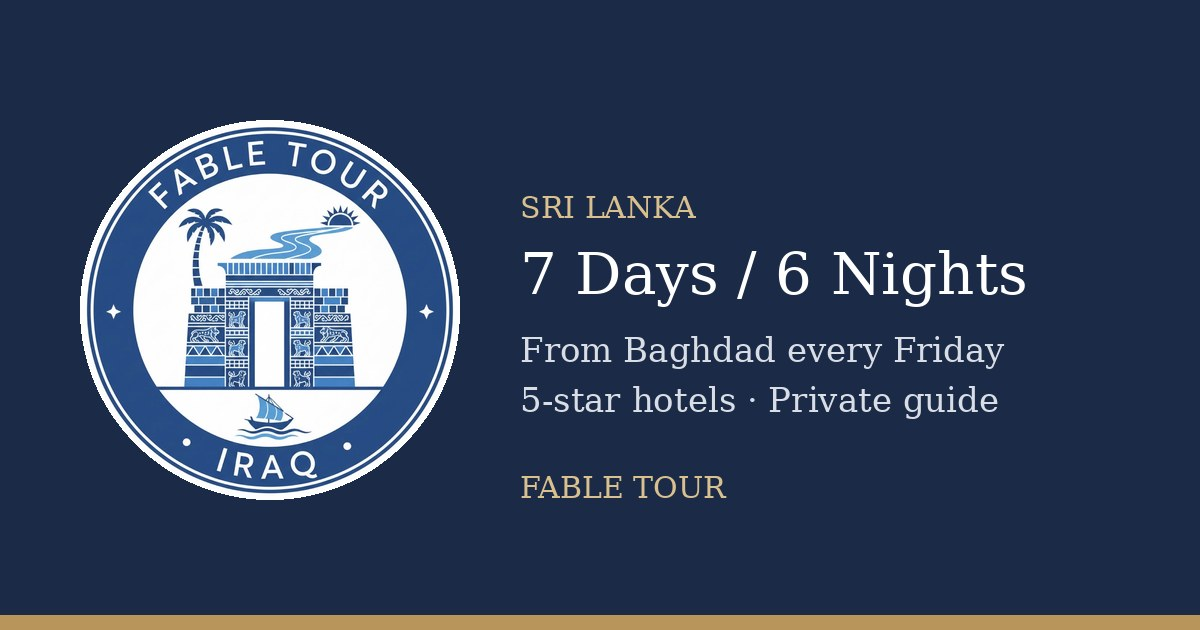
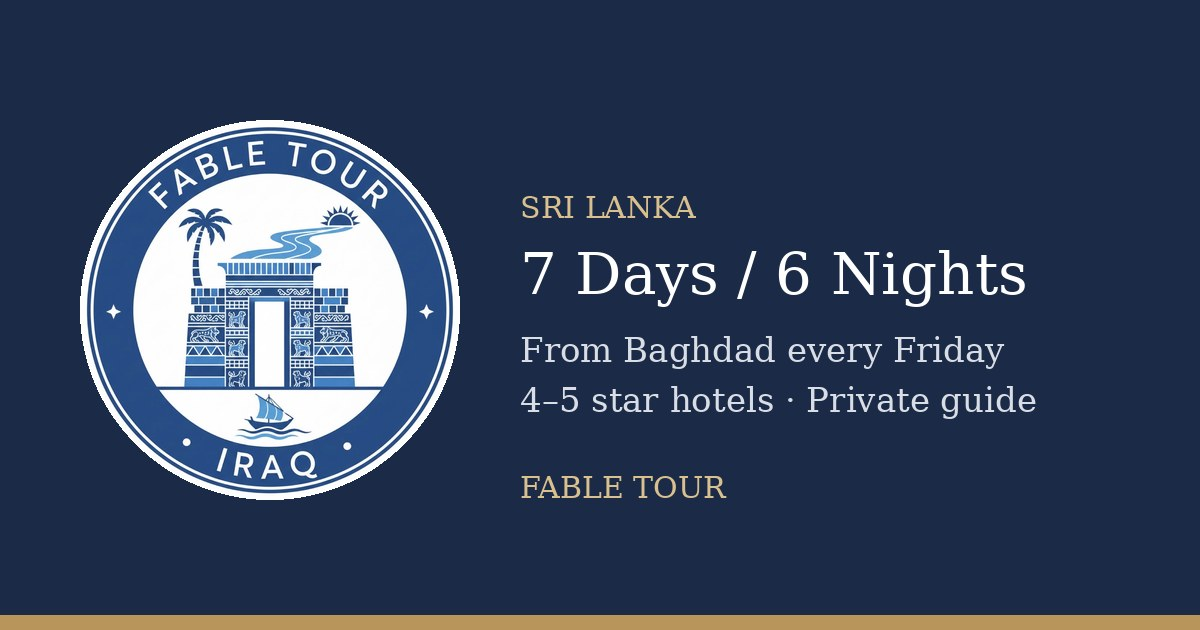
Hotels 4–5 star wording, show star rating beside each hotel
Claude-Session: https://claude.ai/code/session_01KJ5c9CWihq2sHtQUL9fRsE

Changed region(s): [[0.4317, 0.6032, 0.8633, 0.6635]]

diff --git a/index.html b/index.html
@@ -3,8 +3,8 @@
 <head>
 <meta charset="utf-8">
 <meta name="viewport" content="width=device-width, initial-scale=1, viewport-fit=cover">
-<title>رحلة سريلانكا 7 أيام من بغداد كل جمعة | فنادق 5 نجوم | Fable Tour</title>
-<meta name="description" content="برنامج سياحي إلى سريلانكا 7 أيام و6 ليالٍ من مطار بغداد الدولي كل جمعة: نيغومبو، صخرة سيجيريا وسفاري الفيلة، كاندي ومعبد السن، مزارع الشاي في نوارا إليا وشواطئ بينتوتا. فنادق 5 نجوم ومرشد خاص. Sri Lanka 7-day tour from Baghdad.">
+<title>رحلة سريلانكا 7 أيام من بغداد كل جمعة | فنادق 4–5 نجوم | Fable Tour</title>
+<meta name="description" content="برنامج سياحي إلى سريلانكا 7 أيام و6 ليالٍ من مطار بغداد الدولي كل جمعة: نيغومبو، صخرة سيجيريا وسفاري الفيلة، كاندي ومعبد السن، مزارع الشاي في نوارا إليا وشواطئ بينتوتا. فنادق 4–5 نجوم ومرشد خاص. Sri Lanka 7-day tour from Baghdad.">
 <meta name="keywords" content="سريلانكا, رحلة سريلانكا من بغداد, سفرة سريلانكا, برنامج سياحي سريلانكا, عروض سريلانكا, سيجيريا, كاندي, نوارا إليا, بينتوتا, نيغومبو, Sri Lanka tour from Baghdad, Sri Lanka holiday Iraq, Fable Tour">
 <meta name="robots" content="index, follow, max-image-preview:large">
 <meta name="author" content="Fable Tour">
@@ -20,16 +20,16 @@
 <meta property="og:locale" content="ar_IQ">
 <meta property="og:locale:alternate" content="en_US">
 <meta property="og:title" content="سريلانكا 7 أيام من بغداد كل جمعة — Fable Tour">
-<meta property="og:description" content="نيغومبو، سيجيريا، كاندي، نوارا إليا وبينتوتا. فنادق 5 نجوم ومرشد خاص. سجّل اهتمامك الآن.">
+<meta property="og:description" content="نيغومبو، سيجيريا، كاندي، نوارا إليا وبينتوتا. فنادق 4–5 نجوم ومرشد خاص. سجّل اهتمامك الآن.">
 <meta property="og:url" content="https://sxatrader-cmd.github.io/Sirlanka/">
 <meta property="og:image" content="https://sxatrader-cmd.github.io/Sirlanka/og-image.jpg">
 <meta property="og:image:width" content="1200">
 <meta property="og:image:height" content="630">
 <meta name="twitter:card" content="summary_large_image">
 <meta name="twitter:title" content="Sri Lanka 7 Days from Baghdad — Fable Tour">
-<meta name="twitter:description" content="Negombo, Sigiriya, Kandy, Nuwara Eliya and Bentota. 5-star hotels, every Friday from Baghdad.">
+<meta name="twitter:description" content="Negombo, Sigiriya, Kandy, Nuwara Eliya and Bentota. 4–5 star hotels, every Friday from Baghdad.">
 <meta name="twitter:image" content="https://sxatrader-cmd.github.io/Sirlanka/og-image.jpg">
-<script type="application/ld+json">{"@context": "https://schema.org", "@graph": [{"@type": "TravelAgency", "@id": "https://fabletour.com/#org", "name": "Fable Tour", "url": "https://fabletour.com", "logo": "https://sxatrader-cmd.github.io/Sirlanka/logo.png", "email": "support@fabletour.com", "telephone": "+9647711745353", "address": {"@type": "PostalAddress", "addressLocality": "Baghdad", "addressCountry": "IQ"}, "sameAs": ["https://www.instagram.com/fable_tour", "https://www.youtube.com/@fabletour", "https://www.tiktok.com/@fabletour"]}, {"@type": "TouristTrip", "name": "Sri Lanka 7 Days / 6 Nights from Baghdad", "alternateName": "رحلة سريلانكا 7 أيام من بغداد", "description": "7-day Sri Lanka holiday departing Baghdad International Airport every Friday: Negombo, Sigiriya, Kandy, Nuwara Eliya and Bentota with 5-star hotels and a private guide.", "url": "https://sxatrader-cmd.github.io/Sirlanka/", "image": "https://sxatrader-cmd.github.io/Sirlanka/og-image.jpg", "touristType": ["Families", "Couples", "Nature lovers", "Culture"], "provider": {"@id": "https://fabletour.com/#org"}, "itinerary": {"@type": "ItemList", "numberOfItems": 7, "itemListElement": [{"@type": "ListItem", "position": 1, "item": {"@type": "TouristDestination", "name": "Day 1: Negombo", "description": "Lagoon safari, fish market, St. Mary's Church, Dutch Canal, Dutch Fort"}}, {"@type": "ListItem", "position": 2, "item": {"@type": "TouristDestination", "name": "Day 2: Sigiriya", "description": "Lion Rock, village tour by bullock cart and catamaran, wild elephant safari"}}, {"@type": "ListItem", "position": 3, "item": {"@type": "TouristDestination", "name": "Day 3: Kandy", "description": "Hindu kovil, spice garden, Temple of the Tooth, gem factory, Kandyan dance show"}}, {"@type": "ListItem", "position": 4, "item": {"@type": "TouristDestination", "name": "Day 4: Nuwara Eliya", "description": "Botanical garden, Ceylon tea factory, tea plantations, waterfall"}}, {"@type": "ListItem", "position": 5, "item": {"@type": "TouristDestination", "name": "Day 5: Bentota", "description": "Moon Plains, white-water rafting at Kitulgala, Bentota beach"}}, {"@type": "ListItem", "position": 6, "item": {"@type": "TouristDestination", "name": "Day 6: Bentota", "description": "Madu River boat safari, Cinnamon Island, turtle hatchery, mask museum"}}, {"@type": "ListItem", "position": 7, "item": {"@type": "TouristDestination", "name": "Day 7: Colombo", "description": "Transfer to Bandaranaike International Airport and flight to Baghdad"}}]}}, {"@type": "FAQPage", "mainEntity": [{"@type": "Question", "name": "متى تنطلق رحلة سريلانكا من بغداد؟", "acceptedAnswer": {"@type": "Answer", "text": "تنطلق الرحلة من مطار بغداد الدولي كل يوم جمعة، ومدتها 7 أيام و6 ليالٍ."}}, {"@type": "Question", "name": "ما مستوى الفنادق في برنامج سريلانكا؟", "acceptedAnswer": {"@type": "Answer", "text": "الإقامة في فنادق 5 نجوم في نيغومبو وسيجيريا وكاندي ونوارا إليا وبينتوتا."}}, {"@type": "Question", "name": "When does the Sri Lanka tour depart from Baghdad?", "acceptedAnswer": {"@type": "Answer", "text": "Every Friday from Baghdad International Airport, for 7 days and 6 nights with 5-star hotels."}}]}]}</script>
+<script type="application/ld+json">{"@context": "https://schema.org", "@graph": [{"@type": "TravelAgency", "@id": "https://fabletour.com/#org", "name": "Fable Tour", "url": "https://fabletour.com", "logo": "https://sxatrader-cmd.github.io/Sirlanka/logo.png", "email": "support@fabletour.com", "telephone": "+9647711745353", "address": {"@type": "PostalAddress", "addressLocality": "Baghdad", "addressCountry": "IQ"}, "sameAs": ["https://www.instagram.com/fable_tour", "https://www.youtube.com/@fabletour", "https://www.tiktok.com/@fabletour"]}, {"@type": "TouristTrip", "name": "Sri Lanka 7 Days / 6 Nights from Baghdad", "alternateName": "رحلة سريلانكا 7 أيام من بغداد", "description": "7-day Sri Lanka holiday departing Baghdad International Airport every Friday: Negombo, Sigiriya, Kandy, Nuwara Eliya and Bentota with 4–5 star hotels and a private guide.", "url": "https://sxatrader-cmd.github.io/Sirlanka/", "image": "https://sxatrader-cmd.github.io/Sirlanka/og-image.jpg", "touristType": ["Families", "Couples", "Nature lovers", "Culture"], "provider": {"@id": "https://fabletour.com/#org"}, "itinerary": {"@type": "ItemList", "numberOfItems": 7, "itemListElement": [{"@type": "ListItem", "position": 1, "item": {"@type": "TouristDestination", "name": "Day 1: Negombo", "description": "Lagoon safari, fish market, St. Mary's Church, Dutch Canal, Dutch Fort"}}, {"@type": "ListItem", "position": 2, "item": {"@type": "TouristDestination", "name": "Day 2: Sigiriya", "description": "Lion Rock, village tour by bullock cart and catamaran, wild elephant safari"}}, {"@type": "ListItem", "position": 3, "item": {"@type": "TouristDestination", "name": "Day 3: Kandy", "description": "Hindu kovil, spice garden, Temple of the Tooth, gem factory, Kandyan dance show"}}, {"@type": "ListItem", "position": 4, "item": {"@type": "TouristDestination", "name": "Day 4: Nuwara Eliya", "description": "Botanical garden, Ceylon tea factory, tea plantations, waterfall"}}, {"@type": "ListItem", "position": 5, "item": {"@type": "TouristDestination", "name": "Day 5: Bentota", "description": "Moon Plains, white-water rafting at Kitulgala, Bentota beach"}}, {"@type": "ListItem", "position": 6, "item": {"@type": "TouristDestination", "name": "Day 6: Bentota", "description": "Madu River boat safari, Cinnamon Island, turtle hatchery, mask museum"}}, {"@type": "ListItem", "position": 7, "item": {"@type": "TouristDestination", "name": "Day 7: Colombo", "description": "Transfer to Bandaranaike International Airport and flight to Baghdad"}}]}}, {"@type": "FAQPage", "mainEntity": [{"@type": "Question", "name": "متى تنطلق رحلة سريلانكا من بغداد؟", "acceptedAnswer": {"@type": "Answer", "text": "تنطلق الرحلة من مطار بغداد الدولي كل يوم جمعة، ومدتها 7 أيام و6 ليالٍ."}}, {"@type": "Question", "name": "ما مستوى الفنادق في برنامج سريلانكا؟", "acceptedAnswer": {"@type": "Answer", "text": "الإقامة في فنادق 4–5 نجوم في نيغومبو وسيجيريا وكاندي ونوارا إليا وبينتوتا."}}, {"@type": "Question", "name": "When does the Sri Lanka tour depart from Baghdad?", "acceptedAnswer": {"@type": "Answer", "text": "Every Friday from Baghdad International Airport, for 7 days and 6 nights with 4–5 star hotels."}}]}]}</script>
 
 <link rel="preconnect" href="https://fonts.googleapis.com">
 <link rel="preconnect" href="https://fonts.gstatic.com" crossorigin>
@@ -135,6 +135,8 @@ html[lang="ar"] .day-title h3{font-family:var(--serif-ar);font-weight:700;font-s
 .hotel-h h4{margin:2px 0 0;font-family:var(--serif-en);font-weight:400;font-size:20px;color:#fff;line-height:1.3}
 html[lang="ar"] .hotel-h h4{font-family:var(--serif-en)}
 .stars{color:var(--gold-2);font-size:15px;letter-spacing:2px;white-space:nowrap}
+.stars .stxt{letter-spacing:0;font-weight:600;font-size:13px;color:#EFE3C8;margin-inline-start:4px}
+.stbadge{display:inline-block;vertical-align:middle;font:600 12px var(--sans-en);background:var(--gold);color:var(--navy);border-radius:3px;padding:2px 7px;margin-inline-start:6px;letter-spacing:0}
 .hotel-b{padding:14px 18px 18px}
 .hotel-b ul{margin:0 0 14px;padding-inline-start:18px;display:grid;grid-template-columns:repeat(2,minmax(0,1fr));gap:4px 20px;font-size:14.5px;color:var(--ink)}
 .hotel-b li::marker{color:var(--gold)}
@@ -251,7 +253,7 @@ html[lang="ar"] .lb-cap{font-family:var(--serif-ar);font-size:17px;font-weight:7
 
 <noscript><div style="max-width:880px;margin:0 auto;background:#FCFAF6;padding:24px">
 <h1>رحلة سريلانكا 7 أيام من بغداد كل جمعة</h1>
-<p>برنامج سياحي من مطار بغداد الدولي مع فنادق 5 نجوم ومرشد خاص.</p>
+<p>برنامج سياحي من مطار بغداد الدولي مع فنادق 4–5 نجوم ومرشد خاص.</p>
 <ol><li><strong>نيغومبو / Negombo</strong>: Lagoon safari, fish market, St. Mary's Church, Dutch Canal, Dutch Fort</li><li><strong>سيجيريا / Sigiriya</strong>: Lion Rock, village tour by bullock cart and catamaran, wild elephant safari</li><li><strong>كاندي / Kandy</strong>: Hindu kovil, spice garden, Temple of the Tooth, gem factory, Kandyan dance show</li><li><strong>نوارا إليا / Nuwara Eliya</strong>: Botanical garden, Ceylon tea factory, tea plantations, waterfall</li><li><strong>بينتوتا / Bentota</strong>: Moon Plains, white-water rafting at Kitulgala, Bentota beach</li><li><strong>بينتوتا / Bentota</strong>: Madu River boat safari, Cinnamon Island, turtle hatchery, mask museum</li><li><strong>كولومبو / Colombo</strong>: Transfer to Bandaranaike International Airport and flight to Baghdad</li></ol>
 <p>Fable Tour · support@fabletour.com · +964 771 174 5353</p></div></noscript>
 <div class="card">
@@ -375,18 +377,18 @@ const T = {
   h1:"سريلانكا: جزيرة الشاي والفيلة والشواطئ",
   lead:"من نيغومبو إلى صخرة سيجيريا وكاندي المقدسة وتلال الشاي في نوارا إليا، وصولاً إلى شواطئ بينتوتا الذهبية.",
   intro1:"صممنا هذا البرنامج لمن يريد أن يرى سريلانكا كاملة في أسبوع واحد: المدن الساحلية والتاريخ القديم، والمعابد والتوابل، والجبال الخضراء ومزارع الشاي، ثم أيام هادئة على شاطئ المحيط الهندي.",
-  intro2:"الرحلة تنطلق من مطار بغداد الدولي كل يوم جمعة، والإقامة في فنادق 5 نجوم، والتنقل بسيارة خاصة مع مرشد طوال الأيام السبعة.",
+  intro2:"الرحلة تنطلق من مطار بغداد الدولي كل يوم جمعة، والإقامة في فنادق 4–5 نجوم، والتنقل بسيارة خاصة مع مرشد طوال الأيام السبعة.",
   f1k:"أيام / ليالٍ",f1v:"7 / 6",
-  f2k:"فنادق مختارة",f2v:"5★",
+  f2k:"فنادق مختارة",f2v:"4–5★",
   f3k:"انطلاق أسبوعي",f3v:"الجمعة",
   f4k:"من مطار بغداد الدولي",f4v:"BGW",
   itE:"البرنامج · 7 أيام / 6 ليالٍ",inE:"الخدمات",feeE:"معلومات مفيدة",fmE:"احجز مكانك",
   depH:"رحلات أسبوعية من بغداد",depP:"الإقلاع من مطار بغداد الدولي كل جمعة. أقرب مواعيد الانطلاق:",
   itH:"البرنامج يوماً بيوم",itP:"اضغط على عنوان أي يوم لعرض تفاصيله وصوره. اضغط على أي صورة لتكبيرها.",
-  night:"المبيت في",stay:"الإقامة",hotelPh:"صور الفندق",nophotos:"صور الفندق ستضاف قريباً.",
+  night:"المبيت في",stay:"الإقامة",starW:"نجوم",hotelPh:"صور الفندق",nophotos:"صور الفندق ستضاف قريباً.",
   inH:"ما يشمله البرنامج",
   in1h:"طيران من بغداد",in1p:"تذاكر الطيران ذهاباً وإياباً من مطار بغداد الدولي إلى كولومبو، مع الاستقبال والتوديع في المطار.",
-  in2h:"فنادق 5 نجوم",in2p:"6 ليالٍ في فنادق خمس نجوم في نيغومبو وسيجيريا وكاندي ونوارا إليا وبينتوتا مع الإفطار.",
+  in2h:"فنادق 4–5 نجوم",in2p:"6 ليالٍ في فنادق 4–5 نجوم في نيغومبو وسيجيريا وكاندي ونوارا إليا وبينتوتا مع الإفطار.",
   in3h:"سيارة خاصة ومرشد",in3p:"تنقلات خاصة مكيّفة طوال الرحلة مع سائق ومرشد يتحدث الإنجليزية، ومتابعة من فريق Fable Tour.",
   feeH:"رسوم الدخول",feeP:"الأسعار الرسمية للزوار الأجانب (غير SAARC) للمواقع الرئيسية في البرنامج.",
   feeNote:"المصدر: قائمة أسعار الدخول المحدّثة في مارس 2026 (1 دولار ≈ 319 روبية). الأسعار تُدفع بالروبية عند البوابة وقد تتغير دون إشعار مسبق.",
@@ -399,7 +401,7 @@ const T = {
   dayW:"اليوم",photo:"صورة: ويكيميديا كومنز",
   months:["يناير","فبراير","مارس","أبريل","مايو","يونيو","يوليو","أغسطس","سبتمبر","أكتوبر","نوفمبر","ديسمبر"],
   fri:"جمعة",
-  title:"رحلة سريلانكا 7 أيام من بغداد كل جمعة | فنادق 5 نجوم | Fable Tour"
+  title:"رحلة سريلانكا 7 أيام من بغداد كل جمعة | فنادق 4–5 نجوم | Fable Tour"
  },
  en:{
   tagline:"Sri Lanka · 7 days / 6 nights",
@@ -407,18 +409,18 @@ const T = {
   h1:"Sri Lanka: island of tea, elephants and golden beaches",
   lead:"From Negombo to Sigiriya's Lion Rock, sacred Kandy and the tea hills of Nuwara Eliya, ending on the golden beaches of Bentota.",
   intro1:"We built this program for travelers who want to see the whole of Sri Lanka in one week: coastal towns and ancient history, temples and spices, green mountains and tea estates, then quiet days on the Indian Ocean.",
-  intro2:"The trip departs Baghdad International Airport every Friday, with 5-star hotels and a private car and guide for all seven days.",
+  intro2:"The trip departs Baghdad International Airport every Friday, with 4–5 star hotels and a private car and guide for all seven days.",
   f1k:"days / nights",f1v:"7 / 6",
-  f2k:"selected hotels",f2v:"5★",
+  f2k:"selected hotels",f2v:"4–5★",
   f3k:"weekly departure",f3v:"Friday",
   f4k:"from Baghdad International",f4v:"BGW",
   itE:"Program · 7 days / 6 nights",inE:"Services",feeE:"Good to know",fmE:"Reserve your place",
   depH:"Weekly departures from Baghdad",depP:"Flights leave Baghdad International Airport every Friday. Next departures:",
   itH:"Day-by-day itinerary",itP:"Tap a day to open its details and photos. Tap any photo to view it full size.",
-  night:"Overnight in",stay:"Your hotel",hotelPh:"Hotel photos",nophotos:"Hotel photos coming soon.",
+  night:"Overnight in",stay:"Your hotel",starW:"stars",hotelPh:"Hotel photos",nophotos:"Hotel photos coming soon.",
   inH:"What the program includes",
   in1h:"Flights from Baghdad",in1p:"Return flights from Baghdad International Airport to Colombo, with airport meet-and-greet and farewell.",
-  in2h:"5-star hotels",in2p:"6 nights in five-star hotels in Negombo, Sigiriya, Kandy, Nuwara Eliya and Bentota, with breakfast.",
+  in2h:"4–5 star hotels",in2p:"6 nights in 4–5 star hotels in Negombo, Sigiriya, Kandy, Nuwara Eliya and Bentota, with breakfast.",
   in3h:"Private car and guide",in3p:"Private air-conditioned transport for the whole trip with an English-speaking driver-guide, supported by the Fable Tour team.",
   feeH:"Entrance fees",feeP:"Official prices for foreign (non-SAARC) visitors at the main sites on the program.",
   feeNote:"Source: Sri Lanka entrance fee list verified March 2026 (1 USD ≈ 319 LKR). Fees are paid in rupees at the gate and can change without notice.",
@@ -431,7 +433,7 @@ const T = {
   dayW:"Day",photo:"Photo: Wikimedia Commons",
   months:["Jan","Feb","Mar","Apr","May","Jun","Jul","Aug","Sep","Oct","Nov","Dec"],
   fri:"Fri",
-  title:"Sri Lanka 7-Day Tour from Baghdad Every Friday | 5-Star Hotels | Fable Tour"
+  title:"Sri Lanka 7-Day Tour from Baghdad Every Friday | 4–5 Star Hotels | Fable Tour"
  }
 };
 
@@ -445,8 +447,8 @@ const DAYS = [
    {ar:"كنيسة القديسة مريم",en:"St. Mary's Church",q:"St. Mary's Church Negombo"},
    {ar:"القناة الهولندية",en:"Dutch Canal",q:"Hamilton Canal Negombo"},
    {ar:"القلعة الهولندية",en:"Dutch Fort",q:"Negombo Dutch fort gate"}],
-  ar:`<p>تبدأ حكايتك في سريلانكا لحظة وصولك إلى مطار باندارانايكا الدولي في كولومبو، على بعد عشرين دقيقة فقط من نيغومبو، المدينة الساحلية الهادئة التي يعيش أهلها على الصيد منذ قرون. يستقبلك السائق والمرشد الخاص، وبعد تسجيل الدخول في فندقك ذي الخمس نجوم على شاطئ البحر يبدأ برنامج اليوم بإيقاع مريح.</p><p>نبدأ برحلة قارب في بحيرة نيغومبو، وهي مسطح مائي واسع تحيط به غابات المانغروف. من على القارب ستشاهد الصيادين يلقون شباكهم بالطريقة التقليدية، وطيور الرفراف ومالك الحزين والسحالي الكبيرة، وتمر بجزر صغيرة ما زالت عائلات محلية تعيش عليها من خيرات الماء.</p><p>بعدها نزور سوق السمك في نيغومبو، أحد أنشط الأسواق في الجزيرة، حيث يُباع صيد الصباح من التونة والروبيان والسلطعون، وتُفرش الأسماك المجففة تحت الشمس في صفوف طويلة على الرمال في مشهد لا يُنسى. ثم ننتقل إلى كنيسة القديسة مريم، أكبر كنائس المدينة وأشهرها بسقفها المزيّن بالرسوم الملوّنة، وهي سبب تسمية نيغومبو أحياناً بروما الصغيرة.</p><p>تستمر قصة الحقبة الاستعمارية على ضفاف القناة الهولندية التي حُفرت في القرن السابع عشر لنقل القرفة والبضائع إلى كولومبو، وما زالت قوارب الصيادين تعبرها حتى اليوم. ونختم الجولة عند بوابة القلعة الهولندية التي يعود تاريخها إلى عام 1678، وهي من آخر ما تبقى من تحصينات المدينة القديمة. عشاء حر ومبيت في نيغومبو.</p>`,
-  en:`<p>Your Sri Lankan story begins the moment you land at Bandaranaike International Airport in Colombo, only twenty minutes from Negombo, a relaxed coastal town whose people have lived from the sea for centuries. Your private driver-guide meets you on arrival, and after checking in to your five-star beachfront hotel the day's program unfolds at an easy pace.</p><p>We start with a boat safari on the Negombo Lagoon, a wide stretch of water fringed with mangrove forest. From the boat you will watch fishermen cast their nets the traditional way, spot kingfishers, herons and large monitor lizards, and glide past small islands where local families still make their living from the water.</p><p>Next is the Negombo fish market, one of the busiest on the island. The morning catch of tuna, prawns and crabs is sold here, and fish is laid out to dry in the sun in long rows across the sand, a scene you will not forget. From there we move to St. Mary's Church, the town's largest and best-known church, famous for its painted ceiling and one of the reasons Negombo is nicknamed Little Rome.</p><p>The colonial story continues along the Dutch Canal, dug in the seventeenth century to carry cinnamon and goods to Colombo and still used by fishing boats today. We finish at the gate of the Dutch Fort, dated 1678, one of the last surviving pieces of the old town walls. Free evening and overnight stay in Negombo.</p>`,
+  ar:`<p>تبدأ حكايتك في سريلانكا لحظة وصولك إلى مطار باندارانايكا الدولي في كولومبو، على بعد عشرين دقيقة فقط من نيغومبو، المدينة الساحلية الهادئة التي يعيش أهلها على الصيد منذ قرون. يستقبلك السائق والمرشد الخاص، وبعد تسجيل الدخول في فندقك على شاطئ البحر يبدأ برنامج اليوم بإيقاع مريح.</p><p>نبدأ برحلة قارب في بحيرة نيغومبو، وهي مسطح مائي واسع تحيط به غابات المانغروف. من على القارب ستشاهد الصيادين يلقون شباكهم بالطريقة التقليدية، وطيور الرفراف ومالك الحزين والسحالي الكبيرة، وتمر بجزر صغيرة ما زالت عائلات محلية تعيش عليها من خيرات الماء.</p><p>بعدها نزور سوق السمك في نيغومبو، أحد أنشط الأسواق في الجزيرة، حيث يُباع صيد الصباح من التونة والروبيان والسلطعون، وتُفرش الأسماك المجففة تحت الشمس في صفوف طويلة على الرمال في مشهد لا يُنسى. ثم ننتقل إلى كنيسة القديسة مريم، أكبر كنائس المدينة وأشهرها بسقفها المزيّن بالرسوم الملوّنة، وهي سبب تسمية نيغومبو أحياناً بروما الصغيرة.</p><p>تستمر قصة الحقبة الاستعمارية على ضفاف القناة الهولندية التي حُفرت في القرن السابع عشر لنقل القرفة والبضائع إلى كولومبو، وما زالت قوارب الصيادين تعبرها حتى اليوم. ونختم الجولة عند بوابة القلعة الهولندية التي يعود تاريخها إلى عام 1678، وهي من آخر ما تبقى من تحصينات المدينة القديمة. عشاء حر ومبيت في نيغومبو.</p>`,
+  en:`<p>Your Sri Lankan story begins the moment you land at Bandaranaike International Airport in Colombo, only twenty minutes from Negombo, a relaxed coastal town whose people have lived from the sea for centuries. Your private driver-guide meets you on arrival, and after checking in to your beachfront hotel the day's program unfolds at an easy pace.</p><p>We start with a boat safari on the Negombo Lagoon, a wide stretch of water fringed with mangrove forest. From the boat you will watch fishermen cast their nets the traditional way, spot kingfishers, herons and large monitor lizards, and glide past small islands where local families still make their living from the water.</p><p>Next is the Negombo fish market, one of the busiest on the island. The morning catch of tuna, prawns and crabs is sold here, and fish is laid out to dry in the sun in long rows across the sand, a scene you will not forget. From there we move to St. Mary's Church, the town's largest and best-known church, famous for its painted ceiling and one of the reasons Negombo is nicknamed Little Rome.</p><p>The colonial story continues along the Dutch Canal, dug in the seventeenth century to carry cinnamon and goods to Colombo and still used by fishing boats today. We finish at the gate of the Dutch Fort, dated 1678, one of the last surviving pieces of the old town walls. Free evening and overnight stay in Negombo.</p>`,
   night:{ar:"نيغومبو",en:"Negombo"} },
 
 { city:{ar:"سيجيريا",en:"Sigiriya"},
@@ -456,8 +458,8 @@ const DAYS = [
    {ar:"جولة القرية بعربة الثيران",en:"Village tour by bullock cart",q:"bullock cart Sri Lanka village"},
    {ar:"رحلة قارب الكاتاماران",en:"Catamaran ride",q:"Sigiriya village lake boat"},
    {ar:"سفاري فيلة البرية",en:"Wild elephant safari",q:"Minneriya National Park elephants"}],
-  ar:`<p>بعد الإفطار نغادر الساحل باتجاه قلب الجزيرة، في رحلة تمر بحقول الأرز وبساتين جوز الهند حتى نصل إلى سيجيريا، موطن أشهر معلم في سريلانكا. صخرة الأسد كتلة صخرية ضخمة ترتفع نحو 200 متر فوق الغابة، بنى الملك كاشيابا على قمتها قصره في القرن الخامس الميلادي، وهي اليوم من مواقع التراث العالمي لليونسكو.</p><p>يمر الصعود بحدائق مائية مصممة بدقة مدهشة، ثم بالجدار المرآة اللامع، ولوحات الجداريات الشهيرة لنساء سيجيريا بألوانها التي حافظت على بريقها خمسة عشر قرناً. وفي منتصف الطريق تقف أمام قدمي الأسد الحجريتين العملاقتين اللتين كانتا مدخل القصر، ومن القمة تنفتح أمامك إطلالة بانورامية على الغابات والبحيرات حتى الأفق.</p><p>بعد الظهر نعيش يوماً في حياة القرية السريلانكية. نركب عربة تجرها الثيران عبر الطرق الترابية والحقول، ثم نعبر بحيرة صغيرة على قارب الكاتاماران التقليدي المصنوع من الخشب، ونزور بيتاً قروياً لنتعرف على طريقة الطبخ المحلية ونتذوق طعاماً منزلياً بسيطاً يُقدَّم على أوراق اللوتس.</p><p>ومع اقتراب المساء ننطلق بسيارات الجيب في سفاري داخل إحدى المحميات القريبة، مينيريا أو كاودولا بحسب الموسم، حيث تتجمع قطعان الفيلة البرية حول البحيرات بالعشرات أحياناً، إلى جانب الغزلان والجواميس والطيور المائية. تجربة تبقى في الذاكرة طويلاً. المبيت في فندق 5 نجوم في سيجيريا.</p>`,
-  en:`<p>After breakfast we leave the coast for the heart of the island, driving past rice paddies and coconut groves to Sigiriya, home of Sri Lanka's most famous landmark. Lion Rock is a massive rock rising some 200 metres above the jungle. In the fifth century King Kashyapa built his palace on its summit, and today it is a UNESCO World Heritage Site.</p><p>The climb leads through water gardens laid out with remarkable precision, past the polished Mirror Wall and the celebrated frescoes of the Sigiriya maidens, whose colours have kept their glow for fifteen centuries. Halfway up you stand between the giant stone paws of the lion that once guarded the palace entrance, and from the top a panorama of forest and lakes stretches to the horizon.</p><p>In the afternoon we spend time in a Sri Lankan village. A bullock cart carries you along dirt tracks and through the fields, then a traditional wooden catamaran takes you across a small lake. At a village home you will see how local food is prepared and taste a simple home-cooked meal served on a lotus leaf.</p><p>As the light softens we set off by jeep on a safari in a nearby national park, Minneriya or Kaudulla depending on the season. Herds of wild elephants gather around the lakes, sometimes dozens at a time, along with deer, buffalo and water birds. It is an experience that stays with you. Overnight in a 5-star hotel in Sigiriya.</p>`,
+  ar:`<p>بعد الإفطار نغادر الساحل باتجاه قلب الجزيرة، في رحلة تمر بحقول الأرز وبساتين جوز الهند حتى نصل إلى سيجيريا، موطن أشهر معلم في سريلانكا. صخرة الأسد كتلة صخرية ضخمة ترتفع نحو 200 متر فوق الغابة، بنى الملك كاشيابا على قمتها قصره في القرن الخامس الميلادي، وهي اليوم من مواقع التراث العالمي لليونسكو.</p><p>يمر الصعود بحدائق مائية مصممة بدقة مدهشة، ثم بالجدار المرآة اللامع، ولوحات الجداريات الشهيرة لنساء سيجيريا بألوانها التي حافظت على بريقها خمسة عشر قرناً. وفي منتصف الطريق تقف أمام قدمي الأسد الحجريتين العملاقتين اللتين كانتا مدخل القصر، ومن القمة تنفتح أمامك إطلالة بانورامية على الغابات والبحيرات حتى الأفق.</p><p>بعد الظهر نعيش يوماً في حياة القرية السريلانكية. نركب عربة تجرها الثيران عبر الطرق الترابية والحقول، ثم نعبر بحيرة صغيرة على قارب الكاتاماران التقليدي المصنوع من الخشب، ونزور بيتاً قروياً لنتعرف على طريقة الطبخ المحلية ونتذوق طعاماً منزلياً بسيطاً يُقدَّم على أوراق اللوتس.</p><p>ومع اقتراب المساء ننطلق بسيارات الجيب في سفاري داخل إحدى المحميات القريبة، مينيريا أو كاودولا بحسب الموسم، حيث تتجمع قطعان الفيلة البرية حول البحيرات بالعشرات أحياناً، إلى جانب الغزلان والجواميس والطيور المائية. تجربة تبقى في الذاكرة طويلاً. المبيت في سيجيريا.</p>`,
+  en:`<p>After breakfast we leave the coast for the heart of the island, driving past rice paddies and coconut groves to Sigiriya, home of Sri Lanka's most famous landmark. Lion Rock is a massive rock rising some 200 metres above the jungle. In the fifth century King Kashyapa built his palace on its summit, and today it is a UNESCO World Heritage Site.</p><p>The climb leads through water gardens laid out with remarkable precision, past the polished Mirror Wall and the celebrated frescoes of the Sigiriya maidens, whose colours have kept their glow for fifteen centuries. Halfway up you stand between the giant stone paws of the lion that once guarded the palace entrance, and from the top a panorama of forest and lakes stretches to the horizon.</p><p>In the afternoon we spend time in a Sri Lankan village. A bullock cart carries you along dirt tracks and through the fields, then a traditional wooden catamaran takes you across a small lake. At a village home you will see how local food is prepared and taste a simple home-cooked meal served on a lotus leaf.</p><p>As the light softens we set off by jeep on a safari in a nearby national park, Minneriya or Kaudulla depending on the season. Herds of wild elephants gather around the lakes, sometimes dozens at a time, along with deer, buffalo and water birds. It is an experience that stays with you. Overnight in Sigiriya.</p>`,
   night:{ar:"سيجيريا",en:"Sigiriya"} },
 
 { city:{ar:"كاندي",en:"Kandy"},
@@ -479,8 +481,8 @@ const DAYS = [
    {ar:"مصنع شاي سيلان",en:"Ceylon tea factory",q:"tea factory Nuwara Eliya"},
    {ar:"مزارع الشاي",en:"Tea plantations",q:"tea plantation Nuwara Eliya"},
    {ar:"الشلال",en:"Waterfall",q:"Ramboda Falls"}],
-  ar:`<p>يأخذنا طريق اليوم صعوداً عبر منعطفات جبلية خلابة نحو نوارا إليا، المدينة التي تقع على ارتفاع نحو 1900 متر ويسمونها إنجلترا الصغيرة بسبب جوها البارد وبيوتها الريفية وحدائقها المزهرة. على طول الطريق تتغير المشاهد من الغابات الاستوائية إلى تلال كاملة مكسوة بشجيرات الشاي.</p><p>نتوقف عند أحد الشلالات الجميلة على الطريق الجبلي، حيث تنحدر المياه بين الصخور والغابات في مشهد مثالي للتصوير. ثم نزور مصنع شاي سيلان لنتعرف على رحلة الورقة من المزرعة حتى الكوب: القطف اليدوي، والتذبيل، واللف، والتخمير، والتجفيف، والفرز. وفي ختام الزيارة نتذوق كوباً من الشاي الطازج المطل على المزارع.</p><p>بعدها نتجول في مزارع الشاي ونشاهد القاطفات بأزيائهن الملوّنة وهن يجمعن البراعم الطرية بمهارة، وهو التقليد الذي جعل اسم سيلان مرادفاً لأجود أنواع الشاي في العالم منذ القرن التاسع عشر.</p><p>بعد الظهر نزور حديقة هاكغالا النباتية، إحدى أقدم الحدائق في الجزيرة، التي أنشئت في القرن التاسع عشر عند سفح صخرة هاكغالا. تضم الحديقة الورود والسراخس العملاقة وأشجار الأوكالبتوس والزهور الجبلية، وتنتشر فيها القرود الودودة. ويمكن في المساء التنزه حول بحيرة غريغوري أو في وسط المدينة بمبانيها الاستعمارية. المبيت في فندق 5 نجوم في نوارا إليا.</p>`,
-  en:`<p>Today's road climbs through spectacular mountain bends to Nuwara Eliya, a town at about 1,900 metres nicknamed Little England for its cool climate, cottage-style houses and flower gardens. Along the way the scenery changes from tropical forest to whole hillsides covered in tea bushes.</p><p>We stop at one of the beautiful waterfalls on the mountain road, where the water tumbles between rocks and forest, a perfect photo spot. Then we visit a Ceylon tea factory to follow the leaf from the field to the cup: hand plucking, withering, rolling, fermenting, drying and grading. The visit ends with a cup of freshly made tea overlooking the estates.</p><p>Afterwards we walk through the tea plantations and watch the pickers in their colourful clothes skilfully gathering the tender buds, the tradition that has made the name Ceylon a byword for fine tea since the nineteenth century.</p><p>In the afternoon we visit Hakgala Botanical Garden, one of the oldest gardens on the island, laid out in the nineteenth century at the foot of Hakgala Rock. It is full of roses, giant tree ferns, eucalyptus and mountain flowers, and friendly monkeys roam its paths. In the evening you can stroll around Lake Gregory or through the town centre with its colonial buildings. Overnight in a 5-star hotel in Nuwara Eliya.</p>`,
+  ar:`<p>يأخذنا طريق اليوم صعوداً عبر منعطفات جبلية خلابة نحو نوارا إليا، المدينة التي تقع على ارتفاع نحو 1900 متر ويسمونها إنجلترا الصغيرة بسبب جوها البارد وبيوتها الريفية وحدائقها المزهرة. على طول الطريق تتغير المشاهد من الغابات الاستوائية إلى تلال كاملة مكسوة بشجيرات الشاي.</p><p>نتوقف عند أحد الشلالات الجميلة على الطريق الجبلي، حيث تنحدر المياه بين الصخور والغابات في مشهد مثالي للتصوير. ثم نزور مصنع شاي سيلان لنتعرف على رحلة الورقة من المزرعة حتى الكوب: القطف اليدوي، والتذبيل، واللف، والتخمير، والتجفيف، والفرز. وفي ختام الزيارة نتذوق كوباً من الشاي الطازج المطل على المزارع.</p><p>بعدها نتجول في مزارع الشاي ونشاهد القاطفات بأزيائهن الملوّنة وهن يجمعن البراعم الطرية بمهارة، وهو التقليد الذي جعل اسم سيلان مرادفاً لأجود أنواع الشاي في العالم منذ القرن التاسع عشر.</p><p>بعد الظهر نزور حديقة هاكغالا النباتية، إحدى أقدم الحدائق في الجزيرة، التي أنشئت في القرن التاسع عشر عند سفح صخرة هاكغالا. تضم الحديقة الورود والسراخس العملاقة وأشجار الأوكالبتوس والزهور الجبلية، وتنتشر فيها القرود الودودة. ويمكن في المساء التنزه حول بحيرة غريغوري أو في وسط المدينة بمبانيها الاستعمارية. المبيت في نوارا إليا.</p>`,
+  en:`<p>Today's road climbs through spectacular mountain bends to Nuwara Eliya, a town at about 1,900 metres nicknamed Little England for its cool climate, cottage-style houses and flower gardens. Along the way the scenery changes from tropical forest to whole hillsides covered in tea bushes.</p><p>We stop at one of the beautiful waterfalls on the mountain road, where the water tumbles between rocks and forest, a perfect photo spot. Then we visit a Ceylon tea factory to follow the leaf from the field to the cup: hand plucking, withering, rolling, fermenting, drying and grading. The visit ends with a cup of freshly made tea overlooking the estates.</p><p>Afterwards we walk through the tea plantations and watch the pickers in their colourful clothes skilfully gathering the tender buds, the tradition that has made the name Ceylon a byword for fine tea since the nineteenth century.</p><p>In the afternoon we visit Hakgala Botanical Garden, one of the oldest gardens on the island, laid out in the nineteenth century at the foot of Hakgala Rock. It is full of roses, giant tree ferns, eucalyptus and mountain flowers, and friendly monkeys roam its paths. In the evening you can stroll around Lake Gregory or through the town centre with its colonial buildings. Overnight in Nuwara Eliya.</p>`,
   night:{ar:"نوارا إليا",en:"Nuwara Eliya"} },
 
 { city:{ar:"بينتوتا",en:"Bentota"},
@@ -489,8 +491,8 @@ const DAYS = [
    {ar:"سهول القمر",en:"Moon Plains",q:"Moon Plains Nuwara Eliya"},
    {ar:"التجديف في المياه البيضاء",en:"White-water rafting",q:"Kitulgala rafting"},
    {ar:"شاطئ بينتوتا",en:"Bentota beach",q:"Bentota beach"}],
-  ar:`<p>نبدأ الصباح الباكر برحلة جيب قصيرة إلى سهول القمر، وهي هضبة عشبية واسعة على أطراف نوارا إليا تحيط بها الجبال من كل الجهات. من نقطة المشاهدة المعروفة بنهاية العالم الصغيرة تمتد أمامك إطلالة على سبع سلاسل جبلية وعلى مزارع الشاي والوديان، وفي الأيام الصافية يبدو المشهد كأنه لوحة مرسومة. الهواء البارد والضباب الذي يتبدد مع شروق الشمس يجعلان هذه اللحظة من أجمل لحظات الرحلة.</p><p>بعد الإفطار ننزل من المرتفعات باتجاه الغرب حتى نصل إلى كيتولغالا، المدينة الواقعة على نهر كيلاني والمعروفة بأنها عاصمة رياضات المغامرة في سريلانكا. هنا تنتظرك تجربة التجديف في المياه البيضاء بصحبة مدربين محترفين ومعدات سلامة كاملة، تعبر خلالها عدة منحدرات مائية وسط الغابة الكثيفة. التجربة مناسبة للمبتدئين، ويمكن لمن لا يرغب في المشاركة الاستمتاع بالمشهد من ضفة النهر.</p><p>بعد الغداء نواصل الطريق نحو الساحل الجنوبي الغربي حتى بينتوتا، أحد أجمل منتجعات سريلانكا الشاطئية، حيث يلتقي نهر بينتوتا بالمحيط الهندي. نصل في وقت الأصيل لتسجيل الدخول في المنتجع ذي الخمس نجوم، ثم الاسترخاء على الرمال الذهبية ومشاهدة غروب الشمس فوق المحيط بعد يوم مليء بالطبيعة والمغامرة. المبيت في بينتوتا.</p>`,
-  en:`<p>We start early with a short jeep ride to Moon Plains, a wide grassy plateau on the edge of Nuwara Eliya ringed by mountains on every side. From the viewpoint known as Mini World's End the view sweeps across seven mountain ranges, tea estates and valleys, and on clear days it looks like a painted landscape. The cool air and the mist lifting at sunrise make this one of the finest moments of the trip.</p><p>After breakfast we descend from the highlands westwards to Kitulgala, a town on the Kelani River known as Sri Lanka's capital of adventure sports. Here you can go white-water rafting with professional instructors and full safety equipment, running a series of rapids through dense rainforest. It is suitable for beginners, and anyone who prefers not to take part can enjoy the scene from the riverbank.</p><p>After lunch we continue to the south-west coast and Bentota, one of Sri Lanka's most beautiful beach resorts, where the Bentota River meets the Indian Ocean. We arrive in the late afternoon to check in to your five-star resort, then relax on the golden sand and watch the sun set over the ocean after a day full of nature and adventure. Overnight in Bentota.</p>`,
+  ar:`<p>نبدأ الصباح الباكر برحلة جيب قصيرة إلى سهول القمر، وهي هضبة عشبية واسعة على أطراف نوارا إليا تحيط بها الجبال من كل الجهات. من نقطة المشاهدة المعروفة بنهاية العالم الصغيرة تمتد أمامك إطلالة على سبع سلاسل جبلية وعلى مزارع الشاي والوديان، وفي الأيام الصافية يبدو المشهد كأنه لوحة مرسومة. الهواء البارد والضباب الذي يتبدد مع شروق الشمس يجعلان هذه اللحظة من أجمل لحظات الرحلة.</p><p>بعد الإفطار ننزل من المرتفعات باتجاه الغرب حتى نصل إلى كيتولغالا، المدينة الواقعة على نهر كيلاني والمعروفة بأنها عاصمة رياضات المغامرة في سريلانكا. هنا تنتظرك تجربة التجديف في المياه البيضاء بصحبة مدربين محترفين ومعدات سلامة كاملة، تعبر خلالها عدة منحدرات مائية وسط الغابة الكثيفة. التجربة مناسبة للمبتدئين، ويمكن لمن لا يرغب في المشاركة الاستمتاع بالمشهد من ضفة النهر.</p><p>بعد الغداء نواصل الطريق نحو الساحل الجنوبي الغربي حتى بينتوتا، أحد أجمل منتجعات سريلانكا الشاطئية، حيث يلتقي نهر بينتوتا بالمحيط الهندي. نصل في وقت الأصيل لتسجيل الدخول في المنتجع، ثم الاسترخاء على الرمال الذهبية ومشاهدة غروب الشمس فوق المحيط بعد يوم مليء بالطبيعة والمغامرة. المبيت في بينتوتا.</p>`,
+  en:`<p>We start early with a short jeep ride to Moon Plains, a wide grassy plateau on the edge of Nuwara Eliya ringed by mountains on every side. From the viewpoint known as Mini World's End the view sweeps across seven mountain ranges, tea estates and valleys, and on clear days it looks like a painted landscape. The cool air and the mist lifting at sunrise make this one of the finest moments of the trip.</p><p>After breakfast we descend from the highlands westwards to Kitulgala, a town on the Kelani River known as Sri Lanka's capital of adventure sports. Here you can go white-water rafting with professional instructors and full safety equipment, running a series of rapids through dense rainforest. It is suitable for beginners, and anyone who prefers not to take part can enjoy the scene from the riverbank.</p><p>After lunch we continue to the south-west coast and Bentota, one of Sri Lanka's most beautiful beach resorts, where the Bentota River meets the Indian Ocean. We arrive in the late afternoon to check in to your resort, then relax on the golden sand and watch the sun set over the ocean after a day full of nature and adventure. Overnight in Bentota.</p>`,
   night:{ar:"بينتوتا",en:"Bentota"} },
 
 { city:{ar:"بينتوتا",en:"Bentota"},
@@ -529,19 +531,19 @@ const FEES = [
 /* ================= HOTELS (5★, family-friendly) — day index → hotel =================
    To use your own photos for a hotel, put up to 8 image URLs in imgs:[...] — they replace the automatic photos. */
 const HOTELS = {
- 0:{name:"Club Hotel Dolphin",area:{ar:"وايكال، نيغومبو",en:"Waikkal, Negombo"},q:["Club Hotel Dolphin","Club Dolphin Waikkal"],must:["dolphin"],imgs:[],
+ 0:{name:"Club Hotel Dolphin",stars:5,area:{ar:"وايكال، نيغومبو",en:"Waikkal, Negombo"},q:["Club Hotel Dolphin","Club Dolphin Waikkal"],must:["dolphin"],imgs:[],
     f:{ar:["على الشاطئ مباشرة","مسبحان كبيران ومسبح للأطفال","نادٍ وملعب للأطفال","سبا ونادٍ رياضي وتنس","مطعمان وبار","غرف بإطلالة على البحر"],
        en:["Directly on the beach","Two large pools and a kids' pool","Kids' club and playground","Spa, gym and tennis","Two restaurants and a bar","Sea-view rooms"]}},
- 1:{name:"Heritance Kandalama",area:{ar:"دامبولا، سيجيريا",en:"Dambulla, Sigiriya"},q:["Heritance Kandalama","Kandalama Hotel"],must:["kandalama"],imgs:[],
+ 1:{name:"Heritance Kandalama",stars:5,area:{ar:"دامبولا، سيجيريا",en:"Dambulla, Sigiriya"},q:["Heritance Kandalama","Kandalama Hotel"],must:["kandalama"],imgs:[],
     f:{ar:["من تصميم المعماري جيفري باوا","مسبح لا متناهي يطل على صخرة سيجيريا","وسط الغابة على بحيرة كاندالاما","سبا Six Senses","تنس وغولف مصغّر ودراجات","غرف عائلية"],
        en:["Designed by architect Geoffrey Bawa","Infinity pool facing Sigiriya Rock","Set in jungle on Kandalama Lake","Six Senses spa","Tennis, mini golf and bicycles","Family rooms"]}},
- 2:{name:"The Golden Crown Hotel",area:{ar:"كاندي",en:"Kandy"},q:["Golden Crown Hotel Kandy","Golden Crown Kandy"],must:["golden crown"],imgs:[],
+ 2:{name:"The Golden Crown Hotel",stars:5,area:{ar:"كاندي",en:"Kandy"},q:["Golden Crown Hotel Kandy","Golden Crown Kandy"],must:["golden crown"],imgs:[],
     f:{ar:["إطلالة بانورامية على تلال كاندي","مسبح خارجي وتراس على السطح","سبا بغرف للأزواج","غرفة ألعاب وبلياردو","مطعم ومقهى","يرحّب بالأطفال"],
        en:["Panoramic views over the Kandy hills","Outdoor pool and rooftop terrace","Spa with couples' rooms","Game room and billiards","Restaurant and café","Children welcome"]}},
- 3:{name:"Araliya Green City",area:{ar:"نوارا إليا",en:"Nuwara Eliya"},q:["Araliya Green City","Araliya Green City Nuwara Eliya"],must:["araliya"],imgs:[],
+ 3:{name:"Araliya Green City",stars:5,area:{ar:"نوارا إليا",en:"Nuwara Eliya"},q:["Araliya Green City","Araliya Green City Nuwara Eliya"],must:["araliya"],imgs:[],
     f:{ar:["مسبح داخلي مدفأ ومسبح خارجي","مسبح للأطفال","سبا وساونا","نادٍ رياضي","مطعم ومقهى وبار","في وسط المدينة قرب بحيرة غريغوري"],
        en:["Heated indoor and outdoor pools","Kids' pool","Spa and sauna","Fitness centre","Restaurant, café and bar","Central, near Lake Gregory"]}},
- 4:{name:"Sheraton Kosgoda Turtle Beach Resort",area:{ar:"كوسغودا، بينتوتا",en:"Kosgoda, Bentota"},q:["Sheraton Kosgoda","Kosgoda Turtle Beach Resort"],must:["sheraton","kosgoda"],imgs:[],
+ 4:{name:"Sheraton Kosgoda Turtle Beach Resort",stars:5,area:{ar:"كوسغودا، بينتوتا",en:"Kosgoda, Bentota"},q:["Sheraton Kosgoda","Kosgoda Turtle Beach Resort"],must:["sheraton","kosgoda"],imgs:[],
     f:{ar:["بين المحيط والبحيرة","مسبحان وبار داخل المسبح","نادٍ مجاني للأطفال مع إشراف","سبا وحمّام بخار","مطعمان وثلاثة بارات","قرب مفقس السلاحف"],
        en:["Between the ocean and a lagoon","Two pools with a swim-up bar","Free supervised kids' club","Spa and steam room","Two restaurants, three bars","Next to the turtle hatchery"]}}
 };
@@ -586,7 +588,7 @@ function renderDays(){
     <div class="day-body" id="db${i}" ${openIdx.includes(i)?"":"hidden"}>
       <div class="text">${d[lang]}</div>
       <div class="gallery">${d.stops.map((s,j)=>`<button class="ph loading" data-d="${i}" data-s="${j}" aria-label="${s[lang]}"><span class="cap">${s[lang]}</span></button>`).join("")}</div>
-      ${HOTELS[i]?`<div class="hotel"><div class="hotel-h"><div><span class="eyebrow">${t.stay} · ${HOTELS[i].area[lang]}</span><h4>${HOTELS[i].name}</h4></div><span class="stars" aria-label="5 stars">★★★★★</span></div>
+      ${HOTELS[i]?`<div class="hotel"><div class="hotel-h"><div><span class="eyebrow">${t.stay} · ${HOTELS[i].area[lang]}</span><h4>${HOTELS[i].name} <span class="stbadge">${HOTELS[i].stars} ${t.starW}</span></h4></div><span class="stars" aria-label="${HOTELS[i].stars} stars">${"★".repeat(HOTELS[i].stars)}</span></div>
         <div class="hotel-b"><ul>${HOTELS[i].f[lang].map(x=>`<li>${x}</li>`).join("")}</ul>
         <div class="hgal" data-hd="${i}">${Array.from({length:8},(_,k)=>`<button class="ph loading" data-h="${i}" data-k="${k}" aria-label="${HOTELS[i].name}"></button>`).join("")}</div></div></div>`:""}
     </div>
@@ -676,7 +678,7 @@ findImage("Sigiriya rock").then(im=>{ if(im) $("#heroImg").style.backgroundImage
 const lb=$("#lb"); let cur=null;
 function flat(){ return [...daysEl.querySelectorAll(".day.open .ph[data-src]")]; }
 function capOf(el){
-  if(el.dataset.h!==undefined){ const i=+el.dataset.h; return `${T[lang].dayW} ${i+1} · ${HOTELS[i].name}`; }
+  if(el.dataset.h!==undefined){ const i=+el.dataset.h; return `${T[lang].dayW} ${i+1} · ${HOTELS[i].name} (${HOTELS[i].stars}★)`; }
   const d=+el.dataset.d, s=+el.dataset.s; return `${T[lang].dayW} ${d+1} · ${DAYS[d].stops[s][lang]}`;
 }
 function openLB(el){
